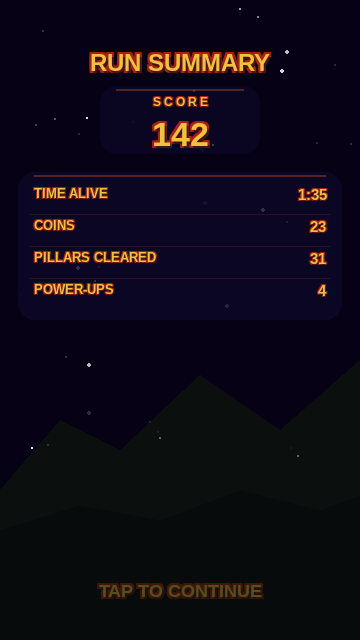
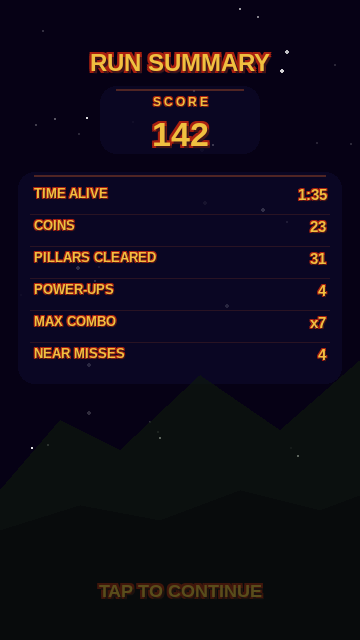
ui: run-summary rows — restore Max combo + Near misses after Power-ups
Final row order:
  1. Time alive
  2. Coins
  3. Pillars cleared
  4. Power-ups
  5. Max combo
  6. Near misses

Preview regenerated.

https://claude.ai/code/session_01KJGBRuaBeUJNGSNy6esTML

Changed region(s): [[0.0917, 0.4688, 0.3667, 0.5625], [0.8556, 0.4688, 0.9167, 0.5625]]

diff --git a/game/hud.py b/game/hud.py
@@ -654,9 +654,10 @@ class HUD:
             ("Time alive",     time_str),
             ("Coins",          str(world.coin_count)),
             ("Pillars cleared", str(world.pillars_passed)),
+            ("Power-ups",      str(sum(world.powerups_picked.values()))),
+            ("Max combo",      f"x{world.max_combo}" if world.max_combo > 1 else "—"),
+            ("Near misses",    str(world.near_misses)),
         ]
-        total_pu = sum(world.powerups_picked.values())
-        rows.append(("Power-ups", str(total_pu)))
 
         row_h = 32
         card_rect = pygame.Rect(18, card_y + 114, W - 36, len(rows) * row_h + 20)
